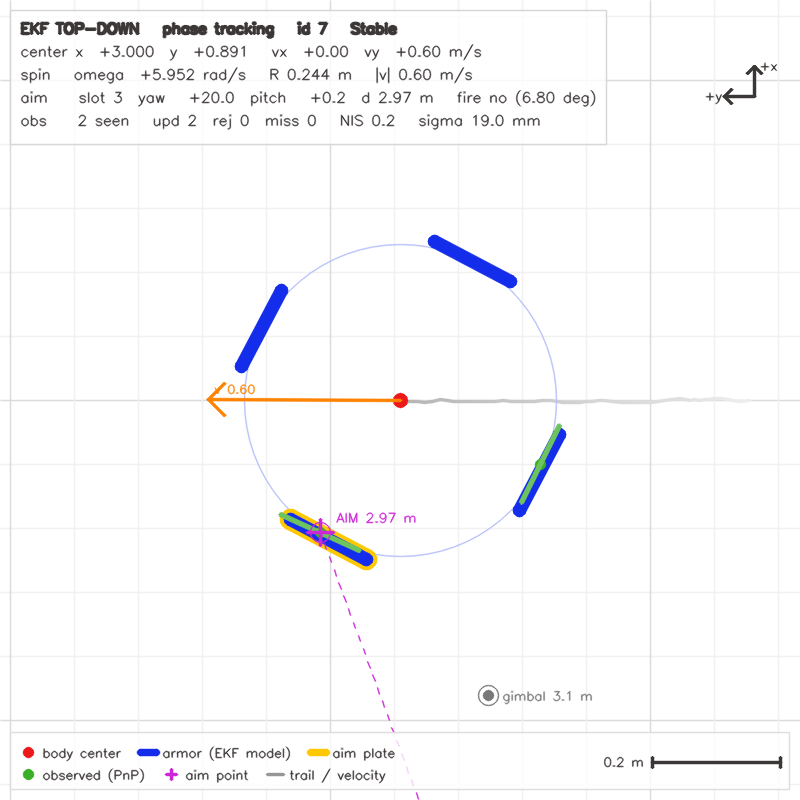
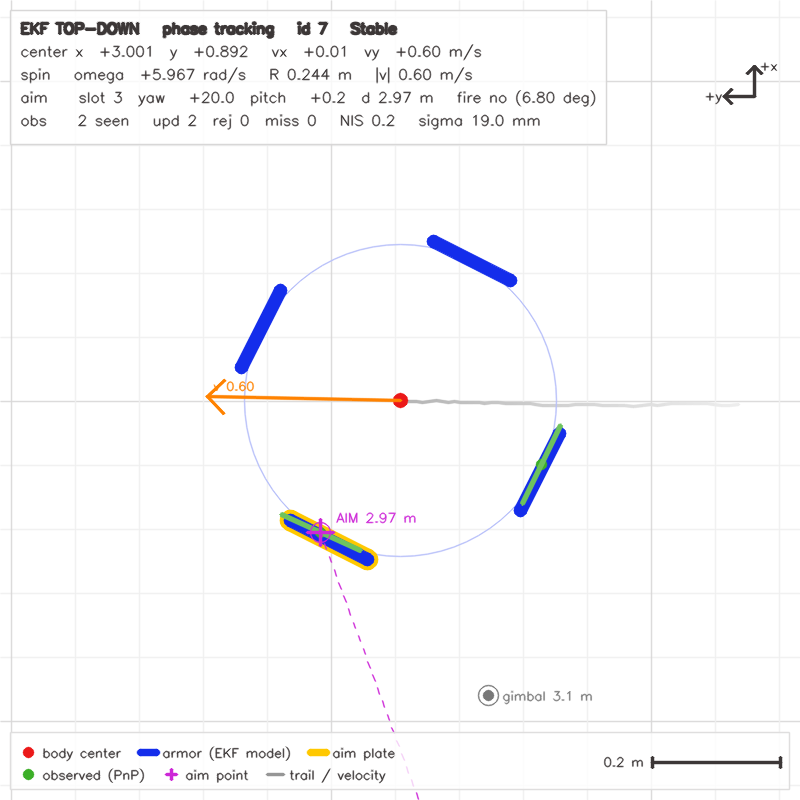
文档：转速自判机制与 v4 修复后截图

diff --git a/tests/README.md b/tests/README.md
@@ -230,6 +230,7 @@ P50≈8），不是拍脑袋。
 截图：![跟随模式](../docs/figures/topdown_follow.png)
 ![固定原点](../docs/figures/topdown_world.png)
 ![真视频回放](../docs/figures/topdown_replay.png)
+![v4 中段（修复后）](../docs/figures/topdown_v4_fixed.png)
 
 坐标映射只有一处：`px = w/2 - (wy-cy)*ppm`、`py = h/2 - (wx-cx)*ppm`，即画布向上 = +x（前方）、
 向左 = +y（左方），车体自转在图上呈逆时针。
@@ -244,14 +245,47 @@ P50≈8），不是拍脑袋。
 10 次更新不做 NIS 否决）、`stale_after_s=0.10`（新鲜度按秒判，不按帧数）、
 `contradiction_check=false`（声明反驳在真数据上会误杀，默认关）。
 
+### 转速自判（`omega` 由数据决定，不靠调用方声明）
+
+早期版本要求调用方在 `EkfInitPrior::spin` 里声明 `Static` / `Spinning`，理由是
+"静止目标的 `omega=0` 从数据里学不出来"。实拍证明反例：v4 静态目标上法向在
+±45° 折叠边界附近来回翻，解缠后是每帧 +5° 的锯齿，任何"逐帧微分"都会给出
+假高速旋转（实测最小二乘 16 rad/s、Theil-Sen −10 rad/s），模型整块板跟着转，
+就是"圆心偏了"的观感。现在改成三件事：
+
+1. **窗口斜率**：取最近 `rate_window_s=0.35 s` 的样本，法向按 `2π/N` 折叠解缠，
+   斜率用 Theil-Sen（点对斜率中位数，对 ≤30% 野值免疫），误差用 MAD（不低于
+   `rate_sigma_floor_rad_s=0.15`）。超过 `rate_max_sigma_rad_s=2.0` 直接弃用。
+2. **换板续接**：最近邻关联失败时，若观测与上一采样法向差是 `2π/N` 的整数倍
+   （四块板共享车体朝向），就接上窗口。快速自转（8 rad/s，每 30 帧换一块板）
+   靠这一条保活；v4 的斜置副板法向差 26°，不会被误接。
+3. **双路证据 + 反证据**：同一窗口再算一路"板相对车心的方位角"斜率（每个样本
+   用它自己的车心，平移不产生方位角变化）；两路差超过 `max(1.5, 0.5|slope|)`
+   就当这窗说不清转速、不更新；超过 `rate_decay_after_s=0.6 s` 拿不出斜率，
+   就喂一次 `omega=0` 的弱伪量测（sigma 2.0），把 omega 按住在 0。
+
+`--trace` 里的 `wobs=±n=` 现在写成 `n=本帧斜率样本数/窗口样本数`，`rate_window_samples=0`
+表示这一帧根本没有可续接的观测（不是拟合失败）。回归测试见
+`test_rotating_armor_tracker` 的 G 组（2/4/6/8 rad/s）与 H 组（静止/平移/慢转，
+判据是"omega 落在真值附近"而不是"命中率"）。
+
+**原理边界**：只给图像、不给云台 IMU 时，"镜头被人手晃动"与"目标自转"在世界系里
+是同一个转动，任何估计器都无法区分。v1（手持、近处一台车+远处一台车）实测：
+修前 omega 发散到 10 rad/s，修后稳定在 |omega| ≲ 0.6 rad/s；残差 0.08 m 中位主要
+来自抖动本身，上实车接了云台角就自动消失。真要再压，就得用画面里另一台静止车
+当参照做共模补偿，或直接信 IMU。
+
 三条从这个环节得到的教训（数值见 `docs/实验报告.md` §4.6）：
 
 1. **单帧拟合残差不能判收敛**。板残差 4~8 mm 时车体中心仍可能差 0.3~0.43 m，
    验收指标必须用状态误差和"冻结观测纯外推误差"。
-2. **"转/不转"必须显式声明，且要能被观测反驳**。`omega=0` 冷启动在 8 个种子上
-   只有 5 个能锁对；旋转声明用在静止目标上是静默失败（状态全错、残差正常）。
-3. 声明错了要用**纯外推**暴露，而不是滤波残差：有观测时 yaw 状态会把相位吸收掉，
-   滤波残差看起来同样正常。
+2. **"转/不转"这件事，低帧率下数据本身说了不算**：166 fps 下 `omega=10 rad/s`、
+   `R=0.35 m` 的切向位移只有 2 cm/帧，与观测噪声同量级。要么用窗口证据 + 反证据
+   （现在的做法），要么显式声明；声明错了要靠纯外推暴露，不能看滤波残差——
+   有观测时 yaw 状态会把相位吸收掉，NIS 看起来照样"自洽"（实测 10 rad/s 时 NIS≈2）。
+3. 门限锁死要有出路：连续拒绝 ≥5 帧要能双板重定，单板重锚只在"上一帧一次更新都
+   没进去"时触发（否则单帧离群观测会被当成重锚候选，`test_rotating_armor_tracker`
+   的 D 组就是守这条）。
 
 调试提示：`/tmp` 在不同 `bash` 调用之间不保留，把 heredoc 写文件、编译、运行写在
 同一次调用里；探针文件放 `.workbuddy/`（已被 `.gitignore` 忽略）。
